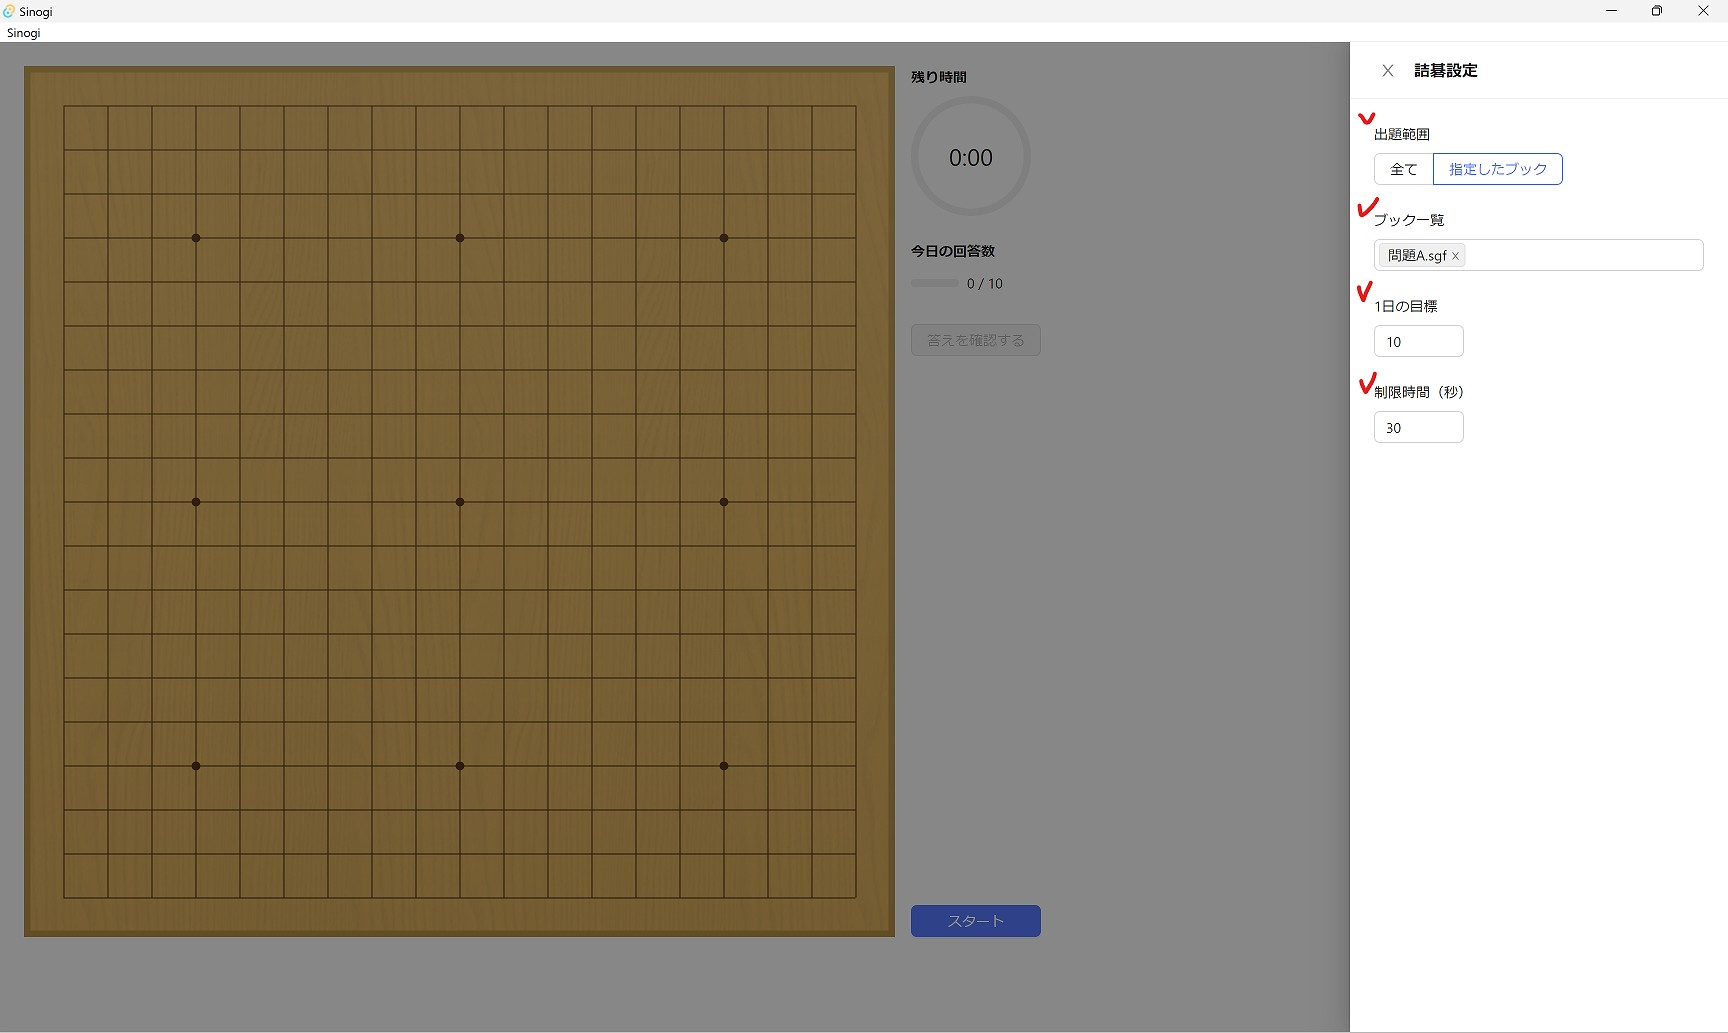
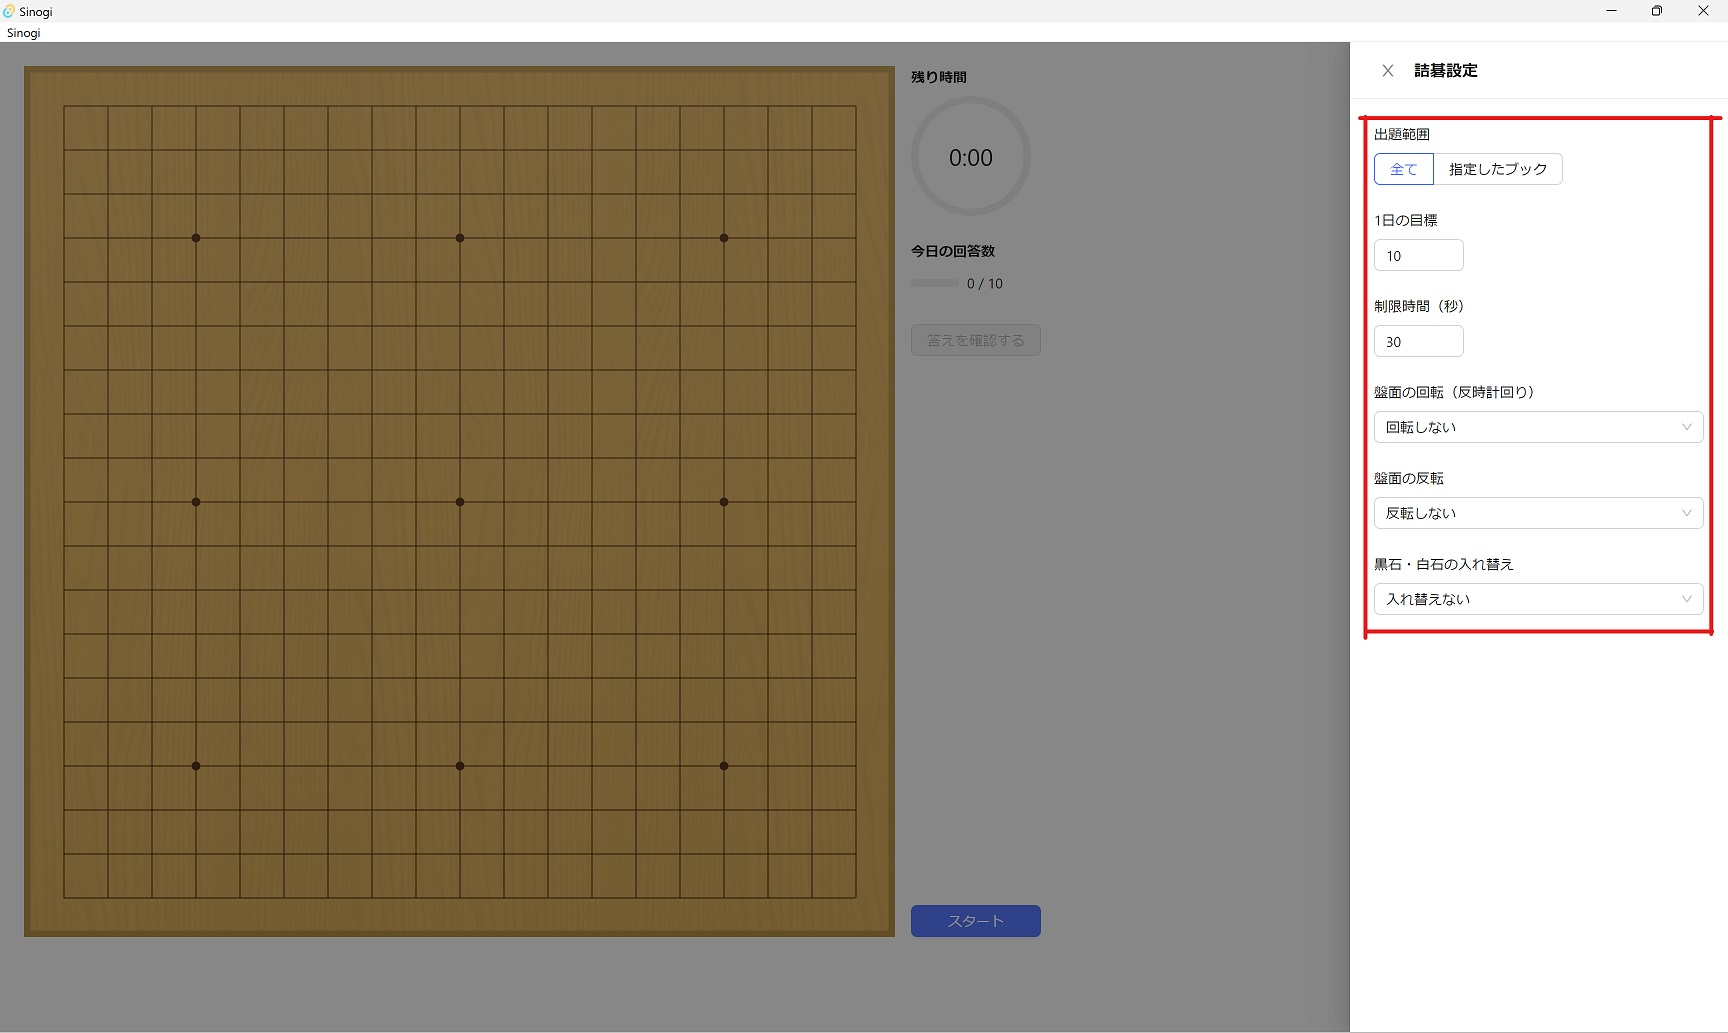
update document

diff --git a/users-guide/UsersGuide.md b/users-guide/UsersGuide.md
@@ -122,8 +122,7 @@ sinogiを起動したら、`メニュー ＞ 問題を管理する` を選択し
 設定項目は下記のとおりです。
 
 - 出題範囲
-    - 全てのブック
-    - 指定したブック（SGFファイルで取り込んだ問題群をブックと呼んでいます）
+    - 出題範囲を全てのブックにするか、指定したブック（SGFファイルで取り込んだ問題群をブックと呼んでいます）だけにするかを選べます
 - ブック一覧
     - 出題範囲を指定したブックにした場合のみ、出題するブックを複数選択できます
 - 1日の目標
@@ -132,6 +131,16 @@ sinogiを起動したら、`メニュー ＞ 問題を管理する` を選択し
 - 制限時間（秒）
     - 回答時間に制限時間を設定できます
         - 0にすると設定しません
+- 盤面の回転（反時計回り）
+    - 盤面を90°間隔で回転させることができます
+    - 「ランダムに回転する」を選択すると、出題ごとに回転有無と回転量を決定します
+- 盤面の反転
+    - 盤面を上下または左右に反転させることができます
+    - 「ランダムに反転する」を選択すると、出題ごとに反転有無と反転方向を決定します
+- 黒石・白石の入れ替え
+    - 黒石と白石を入れ替えることが出来ます
+    - 「ランダムに入れ替える」を選択すると、出題ごとに入れ替えるかどうかを決定します
+    - コメントに入力された「黒石」「白石」等の文言は変更されません
 
 ## 回答履歴を見る
 
